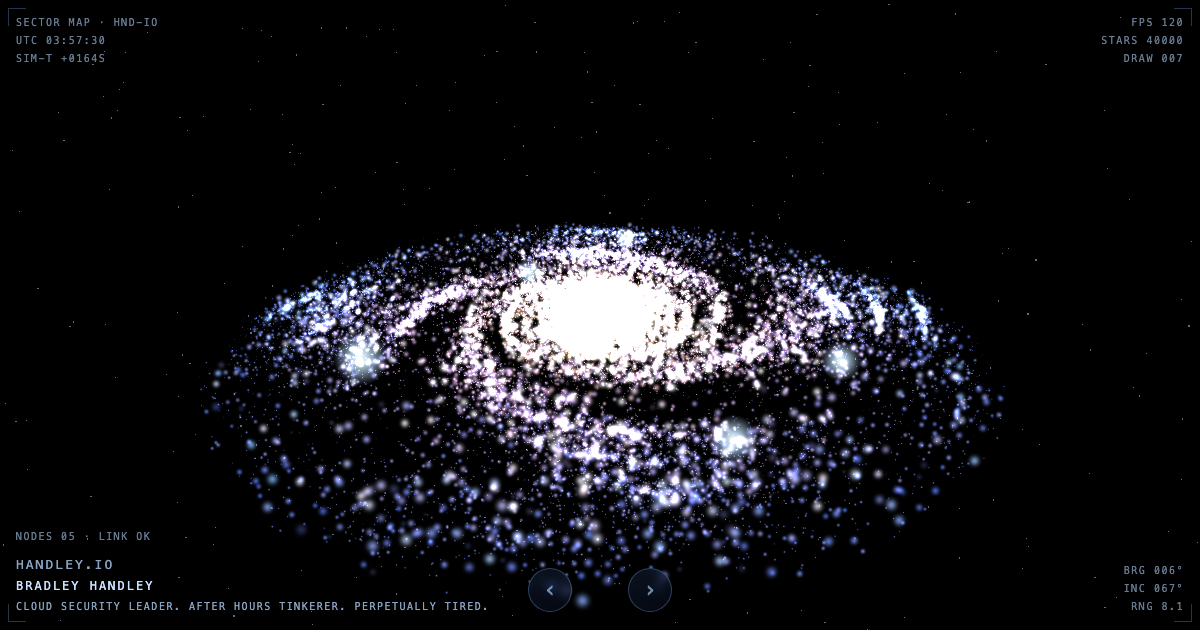
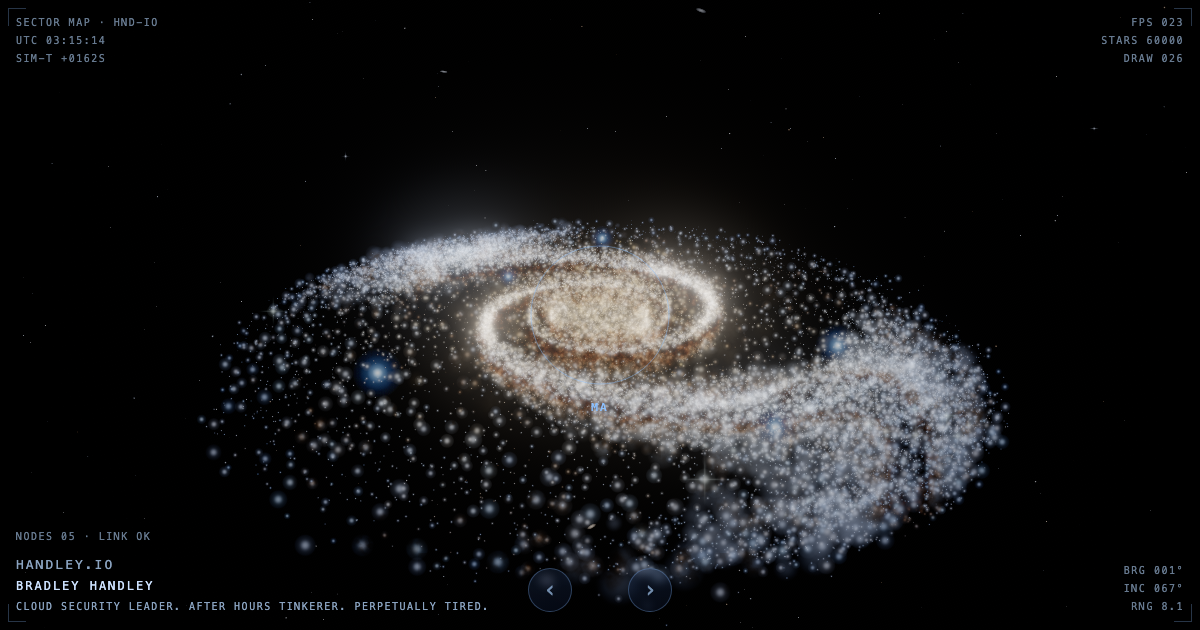
docs: galaxy fidelity deviations, social card recapture, bindings
Claude-Session: https://claude.ai/code/session_014mcxLzSmgv7djJuHZVP58Z

Changed region(s): [[0.1542, 0.3016, 0.8633, 0.9651], [0.0617, 0.0603, 0.0925, 0.0905]]

diff --git a/docs/superpowers/specs/2026-09-10-galaxy-fidelity-design.md b/docs/superpowers/specs/2026-09-10-galaxy-fidelity-design.md
@@ -280,4 +280,32 @@ a screenshot of the old renderer.
 
 ## Deviations accepted during the build
 
-(Recorded here as they happen.)
+- Starfield and deep field are two modules added to the scene separately;
+  the spec's "returns a Group containing both" was dropped as needless.
+- Dust uses `CustomBlending` (`ZeroFactor`, `SrcColorFactor`) rather than
+  three's `MultiplyBlending`, which in 0.184 requires premultiplied alpha
+  and folds alpha into the result.
+- The beacon halo CanvasTexture is tagged `SRGBColorSpace` and its gradient
+  stops were steepened (`src/nodes/beacons.ts`): the HDR OutputPass
+  double-encoded the untagged texture and flattened the halos into discs.
+- `?level=N` pins a quality level and bypasses the governor
+  (`parseLevelParam` in `src/quality.ts`); a tuning and screenshot aid, not
+  a user-facing setting.
+- `GLOW_DEFAULTS.bulgeAlphaScale` gives bulge glow instances their own
+  alpha; the spec's single glow alpha could not keep the core below AgX's
+  shoulder.
+- Glow instance count is 5000 at the top level (spec said 2000 to 4000);
+  11000 halved the frame rate on CI's software GL and timed out the hint
+  e2e test, so haze density is bought with sprite size, not count.
+- Glow sprite size (`sizeMin`/`sizeMax`) ended at 0.12 to 0.36 world units,
+  below the spec's 0.3 to 1.0 starting range: at 1.0 units a single sprite
+  covered about 106px on a 1600x900 frame, reading as a discrete grey
+  puff rather than haze. Dust count, dust size, and bloom threshold stayed
+  inside their spec ranges; deep field count (40) was never tuned.
+- Spikes: `BRIGHT_GIANT_CUTOFF` moved to the value in the table so only a
+  few dozen disc stars carry diffraction spikes (the spec's "top few
+  percent" read as a Christmas tree).
+- winding check pending, controller to fill in.
+- `scripts/capture-og.mjs` now pins `?level=0` and stubs the GitHub API.
+  The first-visit hint did not appear in the capture window, so no
+  hint-seen flag was needed.

diff --git a/CLAUDE.md b/CLAUDE.md
@@ -15,6 +15,9 @@ GitHub commit data. Vite + vanilla TypeScript + Three.js, no framework.
   (deviations recorded at the bottom).
 - Plan: docs/superpowers/plans/2026-06-10-galaxy-homepage.md (kept in sync
   with the code; mirror any code change into the matching plan block).
+- Spec (v1.4 fidelity): docs/superpowers/specs/2026-09-10-galaxy-fidelity-design.md
+- Plan (v1.4 fidelity): docs/superpowers/plans/2026-09-10-galaxy-fidelity.md
+  (constants table is the tuning record; mirror any constant change there)
 
 ## Commands
 
@@ -38,3 +41,7 @@ No version bump or changelog in this repo. Verify the run with
 - The no-WebGL fallback is static HTML in index.html, hidden only after a
   successful init. Never remove those links.
 - The render loop allows zero per-frame allocations; keep it that way.
+- Layers share `src/galaxy/arms.ts` and the GLSL `orbitChunk`; render
+  order lives in `src/galaxy/order.ts`; the post chain in
+  `src/render/post.ts` falls back to direct rendering without float
+  targets. Quality is a ladder in `src/quality.ts`.
